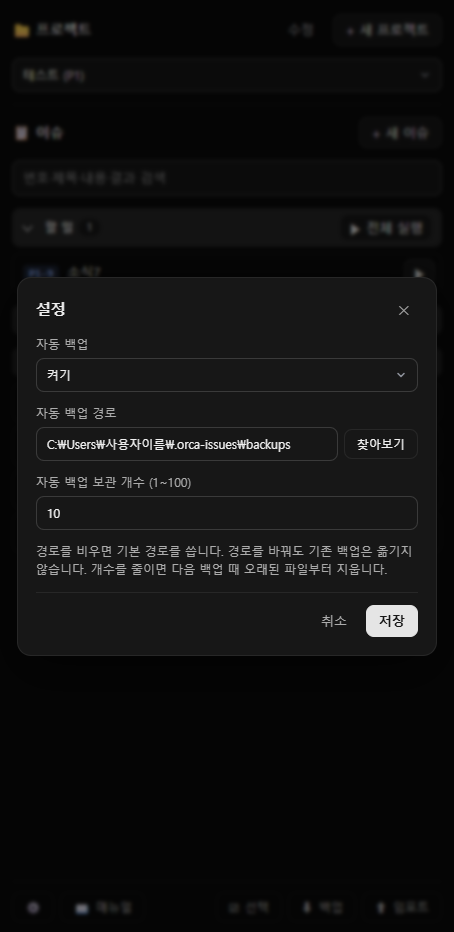
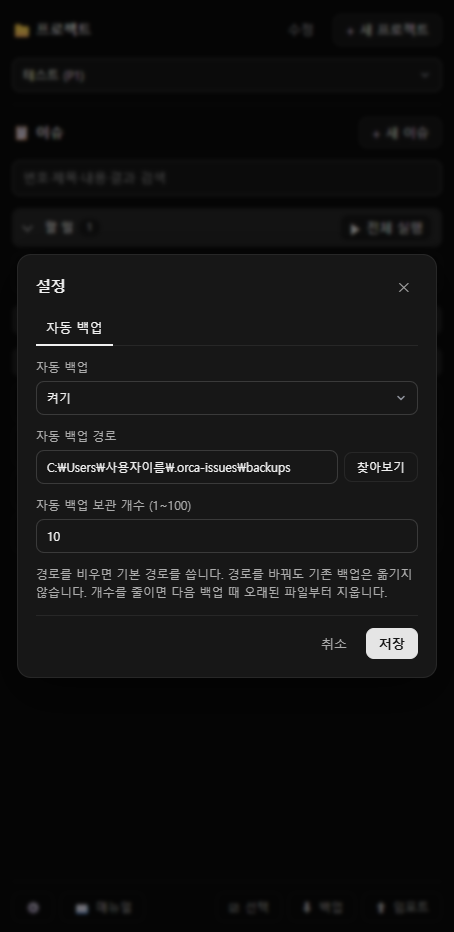
설정 창 상단에 탭을 추가했고, 기존 자동 백업 항목은 자동 백업 탭으로 옮겼습니다. 저장·취소 버튼은 탭 밖 하단에 두어, 앞으로 탭이 늘어나도 한 번에 저장하거나 취소할 수 있습니다.
새 설정을 추가할 때
- SETTINGS_TABS(src/panel.ts)에 { label, body } 한 줄을 넣으면 탭이 생깁니다.
- 탭을 옮겨도 입력 중인 값은 유지되도록 만들었습니다. 지금은 탭이 하나라 탭을 옮기는 동작은 시험해 보지 못했습니다.
- 탭이 많아져 한 줄에 다 안 들어가면 다음 줄로 넘어갑니다.

확인한 것
- 테스트 34개가 모두 통과했습니다.
- Orca 캡처로 454px과 좁은 300px 너비에서 배치가 정상임을 확인했습니다. 처음 찍었을 때 탭 줄에 불필요한 스크롤 막대가 보여서 고친 뒤 다시 찍었습니다.
- 매뉴얼의 설정 캡처(14-settings.png)와 본문도 탭 기준으로 고쳤습니다.

알려 드릴 점
- 지난번에 임시 플러그인은 그 작업에만 쓴다고 말씀드렸는데, 이번 캡처에 다시 썼습니다. 승인이 필요한지 확인하려고 로드했더니, 이전 승인이 남아 있어 추가 확인 없이 바로 로드됐습니다. 예시 데이터로 캡처만 했고 사용 후 다시 제거했습니다.
- 실제 패널에서 저장·취소를 눌러 보는 확인은 아직 남아 있습니다.

변경 사항은 아직 커밋하지 않았습니다.

Changed region(s): [[0.0617, 0.28, 0.9251, 0.7157], [0.7709, 0.4667, 0.8943, 0.529], [0.8634, 0.4045, 0.9251, 0.4356]]

diff --git a/src/panel.ts b/src/panel.ts
@@ -64,6 +64,7 @@ let defaultBackupDir = ''
 let settingsError = ''
 let savingSettings = false
 let pickingDir = false
+let settingsTab = 0
 let saveError = ''
 let projectError = ''
 let editingKey: string | null = null
@@ -1509,6 +1510,56 @@ async function saveSettings() {
 }
 
 // 복구 직전 백업은 데이터 보호용이라 자동 백업을 꺼도 남긴다.
+function backupSettings() {
+  return [
+    select(
+      '자동 백업',
+      [
+        { value: 'on', label: '켜기' },
+        { value: 'off', label: '끄기' }
+      ],
+      settingsDraft.autoBackup ? 'on' : 'off',
+      (value) => (settingsDraft.autoBackup = value === 'on')
+    ),
+    field(
+      '자동 백업 경로',
+      el(
+        'div',
+        { className: 'row' },
+        el(
+          'div',
+          { className: 'grow' },
+          el('input', {
+            value: settingsDraft.backupDir,
+            placeholder: defaultBackupDir,
+            spellcheck: false,
+            oninput: (e: any) => (settingsDraft.backupDir = e.target.value)
+          })
+        ),
+        el(
+          'button',
+          { type: 'button', disabled: pickingDir, style: 'white-space:nowrap', title: '폴더 선택 창을 엽니다', onclick: pickBackupDir },
+          pickingDir ? '선택 중…' : '찾아보기'
+        )
+      )
+    ),
+    field(
+      '자동 백업 보관 개수 (1~100)',
+      el('input', {
+        type: 'number',
+        min: 1,
+        max: 100,
+        value: settingsDraft.backupKeep,
+        oninput: (e: any) => (settingsDraft.backupKeep = e.target.value)
+      })
+    ),
+    el('div', { className: 'muted' }, '경로를 비우면 기본 경로를 씁니다. 경로를 바꿔도 기존 백업은 옮기지 않습니다. 개수를 줄이면 다음 백업 때 오래된 파일부터 지웁니다.')
+  ]
+}
+
+// 설정 탭. 항목을 늘릴 때 여기에 { label, body }를 넣는다. 저장과 취소는 모든 탭에 함께 적용된다.
+const SETTINGS_TABS = [{ label: '자동 백업', body: backupSettings }]
+
 function renderSettingsDialog() {
   settingsDialog.replaceChildren(
     el(
@@ -1520,48 +1571,26 @@ function renderSettingsDialog() {
         el('h2', {}, '설정'),
         el('button', { type: 'button', className: 'ghost icon', ariaLabel: '닫기', onclick: () => settingsDialog.close() }, '✕')
       ),
-      select(
-        '자동 백업',
-        [
-          { value: 'on', label: '켜기' },
-          { value: 'off', label: '끄기' }
-        ],
-        settingsDraft.autoBackup ? 'on' : 'off',
-        (value) => (settingsDraft.autoBackup = value === 'on')
-      ),
-      field(
-        '자동 백업 경로',
-        el(
-          'div',
-          { className: 'row' },
-          el(
-            'div',
-            { className: 'grow' },
-            el('input', {
-              value: settingsDraft.backupDir,
-              placeholder: defaultBackupDir,
-              spellcheck: false,
-              oninput: (e: any) => (settingsDraft.backupDir = e.target.value)
-            })
-          ),
+      el(
+        'div',
+        { className: 'tabs', role: 'tablist', ariaLabel: '설정 항목' },
+        ...SETTINGS_TABS.map((tab, i) =>
           el(
             'button',
-            { type: 'button', disabled: pickingDir, style: 'white-space:nowrap', title: '폴더 선택 창을 엽니다', onclick: pickBackupDir },
-            pickingDir ? '선택 중…' : '찾아보기'
+            {
+              type: 'button',
+              role: 'tab',
+              ariaSelected: String(i === settingsTab),
+              onclick: () => {
+                settingsTab = i
+                renderSettingsDialog()
+              }
+            },
+            tab.label
           )
         )
       ),
-      field(
-        '자동 백업 보관 개수 (1~100)',
-        el('input', {
-          type: 'number',
-          min: 1,
-          max: 100,
-          value: settingsDraft.backupKeep,
-          oninput: (e: any) => (settingsDraft.backupKeep = e.target.value)
-        })
-      ),
-      el('div', { className: 'muted' }, '경로를 비우면 기본 경로를 씁니다. 경로를 바꿔도 기존 백업은 옮기지 않습니다. 개수를 줄이면 다음 백업 때 오래된 파일부터 지웁니다.'),
+      el('div', { className: 'stack', role: 'tabpanel', ariaLabel: SETTINGS_TABS[settingsTab].label }, ...SETTINGS_TABS[settingsTab].body()),
       settingsError ? el('div', { className: 'error' }, settingsError) : null,
       el(
         'div',

diff --git a/docs/manual.html b/docs/manual.html
@@ -225,7 +225,7 @@
 <div class="shots">
   <figure><img src="img/14-settings.png" alt="설정"><figcaption>그림 14. 설정</figcaption></figure>
 </div>
-<p>하단바의 <b>⚙</b> 버튼을 누르면 설정 창이 열립니다. <b>저장</b>을 눌러야 적용되고, <b>취소</b>, ✕, <kbd>Esc</kbd>로 닫으면 바꾼 내용은 버려집니다.</p>
+<p>하단바의 <b>⚙</b> 버튼을 누르면 설정 창이 열립니다. 항목은 창 위쪽 탭으로 나뉘며, 지금은 <b>자동 백업</b> 탭이 있습니다. <b>저장</b>을 눌러야 적용되고, <b>취소</b>, ✕, <kbd>Esc</kbd>로 닫으면 바꾼 내용은 버려집니다.</p>
 <table>
   <tr><th>항목</th><th>설명</th></tr>
   <tr><td>자동 백업</td><td>켜기(기본) 또는 끄기입니다. 꺼도 복구 직전 백업은 남깁니다.</td></tr>

diff --git a/src/panel.html b/src/panel.html
@@ -469,6 +469,30 @@
           transition: none !important;
         }
       }
+      .tabs {
+        display: flex;
+        gap: 2px;
+        flex-wrap: wrap;
+        border-bottom: 1px solid var(--orca-border);
+      }
+      .tabs button {
+        flex: none;
+        margin-bottom: -1px;
+        padding: 6px 10px;
+        color: var(--orca-muted-foreground);
+        background: transparent;
+        border: 0;
+        border-bottom: 2px solid transparent;
+        border-radius: 0;
+      }
+      .tabs button:hover:not(:disabled) {
+        color: var(--orca-foreground);
+        background: transparent;
+      }
+      .tabs button[aria-selected='true'] {
+        color: var(--orca-foreground);
+        border-bottom-color: currentColor;
+      }
       dialog h2 {
         font-size: 15px;
       }
